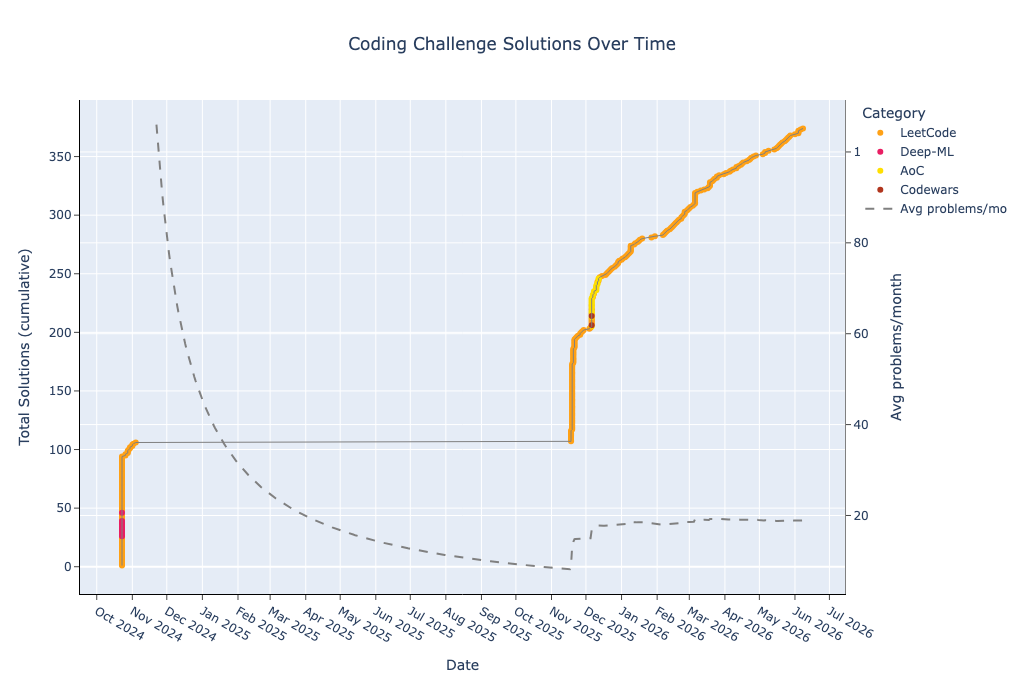
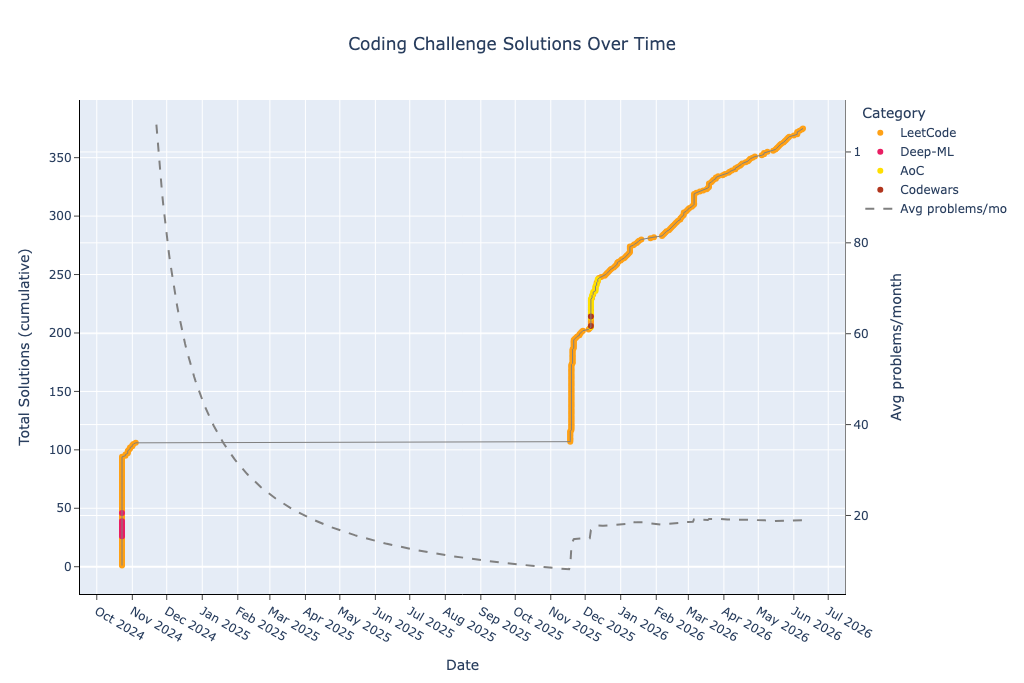
Regenerate README with LeetCode 3689

diff --git a/README.md b/README.md
@@ -36,7 +36,7 @@ This repository contains a collection of coding problems solved on various platf
 | deep-ml-easy | 9 | 72 | 8 | 10 | 0 | 2 | 13 | 0 | 0 | 0 | 12 | 3 | 0 | 0 | 0 | 0 | 0 | 0 |
 | deep-ml-medium | 5 | 69 | 13 | 5 | 0 | 1 | 7 | 0 | 0 | 0 | 8 | 2 | 0 | 0 | 0 | 0 | 0 | 0 |
 | leetcode-easy | 121 | 1980 | 16 | 163 | 6 | 165 | 158 | 42 | 6 | 14 | 198 | 4 | 4 | 14 | 1 | 0 | 12 | 0 |
-| leetcode-medium | 179 | 4660 | 26 | 315 | 5 | 479 | 351 | 104 | 21 | 39 | 392 | 6 | 37 | 57 | 11 | 26 | 23 | 7 |
+| leetcode-medium | 180 | 4667 | 25 | 316 | 5 | 479 | 351 | 104 | 21 | 39 | 393 | 6 | 37 | 57 | 11 | 26 | 23 | 7 |
 | leetcode-hard | 34 | 1061 | 31 | 63 | 4 | 97 | 84 | 21 | 11 | 15 | 79 | 3 | 7 | 14 | 8 | 3 | 9 | 9 |
 
 ## Recent Changes
@@ -47,6 +47,7 @@ Recently solved and added problems.
 
 | Date | Type | Challenge | Solution Code | Problem Link |
 | --- | --- | --- | --- | --- |
+| 2026-06-09 | LeetCode Medium | Maximum Total Subarray Value I | [python](leetcode/medium/3689.%20Maximum%20Total%20Subarray%20Value%20I.py) | [leetcode.com](https://leetcode.com/problems/maximum-total-subarray-value-i/) |
 | 2026-06-08 | LeetCode Medium | Partition Array According to Given Pivot | [python](leetcode/medium/2161.%20Partition%20Array%20According%20to%20Given%20Pivot.py) | [leetcode.com](https://leetcode.com/problems/partition-array-according-to-given-pivot/) |
 | 2026-06-07 | LeetCode Medium | Create Binary Tree From Descriptions | [python](leetcode/medium/2196.%20Create%20Binary%20Tree%20From%20Descriptions.py) | [leetcode.com](https://leetcode.com/problems/create-binary-tree-from-descriptions/) |
 | 2026-06-06 | LeetCode Easy | Left and Right Sum Differences | [python](leetcode/easy/2574.%20Left%20and%20Right%20Sum%20Differences.py) | [leetcode.com](https://leetcode.com/problems/left-and-right-sum-differences/) |
@@ -56,7 +57,6 @@ Recently solved and added problems.
 | 2026-06-01 | LeetCode Easy | Minimum Cost of Buying Candies With Discount | [python](leetcode/easy/2144.%20Minimum%20Cost%20of%20Buying%20Candies%20With%20Discount.py) | [leetcode.com](https://leetcode.com/problems/minimum-cost-of-buying-candies-with-discount/) |
 | 2026-05-28 | LeetCode Hard | Longest Common Suffix Queries | [python](leetcode/hard/3093.%20Longest%20Common%20Suffix%20Queries.py) | [leetcode.com](https://leetcode.com/problems/longest-common-suffix-queries/) |
 | 2026-05-27 | LeetCode Medium | Count the Number of Special Characters II | [python](leetcode/medium/3121.%20Count%20the%20Number%20of%20Special%20Characters%20II.py) | [leetcode.com](https://leetcode.com/problems/count-the-number-of-special-characters-ii/) |
-| 2026-05-26 | LeetCode Easy | Count the Number of Special Characters I | [python](leetcode/easy/3120.%20Count%20the%20Number%20of%20Special%20Characters%20I.py) | [leetcode.com](https://leetcode.com/problems/count-the-number-of-special-characters-i/) |
 # Advent of Code
 ### 2025
 | Day | Challenge | Time Complexity | Space Complexity | Solution Code | Problem Link |
@@ -458,6 +458,7 @@ Recently solved and added problems.
 | 3650 | Minimum Cost Path with Edge Reversals | O(n) | O(1) | [python](leetcode/medium/3650.%20Minimum%20Cost%20Path%20with%20Edge%20Reversals.py) | [leetcode.com](https://leetcode.com/problems/minimum-cost-path-with-edge-reversals/) |
 | 3652 | Best Time to Buy and Sell Stock using Strategy | O(n) | O(1) | [python](leetcode/medium/3652.%20Best%20Time%20to%20Buy%20and%20Sell%20Stock%20using%20Strategy.py) | [leetcode.com](https://leetcode.com/problems/best-time-to-buy-and-sell-stock-using-strategy/) |
 | 3653 | XOR After Range Multiplication Queries I | O(n*n*m) | O(n) | [python](leetcode/medium/3653.%20XOR%20After%20Range%20Multiplication%20Queries%20I.py) | [leetcode.com](https://leetcode.com/problems/xor-after-range-multiplication-queries-i) |
+| 3689 | Maximum Total Subarray Value I | O(n) | O(1) | [python](leetcode/medium/3689.%20Maximum%20Total%20Subarray%20Value%20I.py) | [leetcode.com](https://leetcode.com/problems/maximum-total-subarray-value-i/) |
 | 3713 | Longest Balanced Substring I | O(n) | O(1) | [python](leetcode/medium/3713.%20Longest%20Balanced%20Substring%20I.py) | [leetcode.com](https://leetcode.com/problems/longest-balanced-substring-i/) |
 | 3714 | Longest Balanced Substring II | O(n) | O(1) | [python](leetcode/medium/3714.%20Longest%20Balanced%20Substring%20II.py) | [leetcode.com](https://leetcode.com/problems/longest-balanced-substring-ii/) |
 | 3719 | Longest Balanced Subarray I | O(n) | O(1) | [python](leetcode/medium/3719.%20Longest%20Balanced%20Subarray%20I.py) | [leetcode.com](https://leetcode.com/problems/longest-balanced-subarray-i/) |

diff --git a/CHANGES.md b/CHANGES.md
@@ -6,6 +6,7 @@ Recently solved and added problems.
 
 | Date | Type | Challenge | Solution Code | Problem Link |
 | --- | --- | --- | --- | --- |
+| 2026-06-09 | LeetCode Medium | Maximum Total Subarray Value I | [python](leetcode/medium/3689.%20Maximum%20Total%20Subarray%20Value%20I.py) | [leetcode.com](https://leetcode.com/problems/maximum-total-subarray-value-i/) |
 | 2026-06-08 | LeetCode Medium | Partition Array According to Given Pivot | [python](leetcode/medium/2161.%20Partition%20Array%20According%20to%20Given%20Pivot.py) | [leetcode.com](https://leetcode.com/problems/partition-array-according-to-given-pivot/) |
 | 2026-06-07 | LeetCode Medium | Create Binary Tree From Descriptions | [python](leetcode/medium/2196.%20Create%20Binary%20Tree%20From%20Descriptions.py) | [leetcode.com](https://leetcode.com/problems/create-binary-tree-from-descriptions/) |
 | 2026-06-06 | LeetCode Easy | Left and Right Sum Differences | [python](leetcode/easy/2574.%20Left%20and%20Right%20Sum%20Differences.py) | [leetcode.com](https://leetcode.com/problems/left-and-right-sum-differences/) |
@@ -15,4 +16,3 @@ Recently solved and added problems.
 | 2026-06-01 | LeetCode Easy | Minimum Cost of Buying Candies With Discount | [python](leetcode/easy/2144.%20Minimum%20Cost%20of%20Buying%20Candies%20With%20Discount.py) | [leetcode.com](https://leetcode.com/problems/minimum-cost-of-buying-candies-with-discount/) |
 | 2026-05-28 | LeetCode Hard | Longest Common Suffix Queries | [python](leetcode/hard/3093.%20Longest%20Common%20Suffix%20Queries.py) | [leetcode.com](https://leetcode.com/problems/longest-common-suffix-queries/) |
 | 2026-05-27 | LeetCode Medium | Count the Number of Special Characters II | [python](leetcode/medium/3121.%20Count%20the%20Number%20of%20Special%20Characters%20II.py) | [leetcode.com](https://leetcode.com/problems/count-the-number-of-special-characters-ii/) |
-| 2026-05-26 | LeetCode Easy | Count the Number of Special Characters I | [python](leetcode/easy/3120.%20Count%20the%20Number%20of%20Special%20Characters%20I.py) | [leetcode.com](https://leetcode.com/problems/count-the-number-of-special-characters-i/) |
